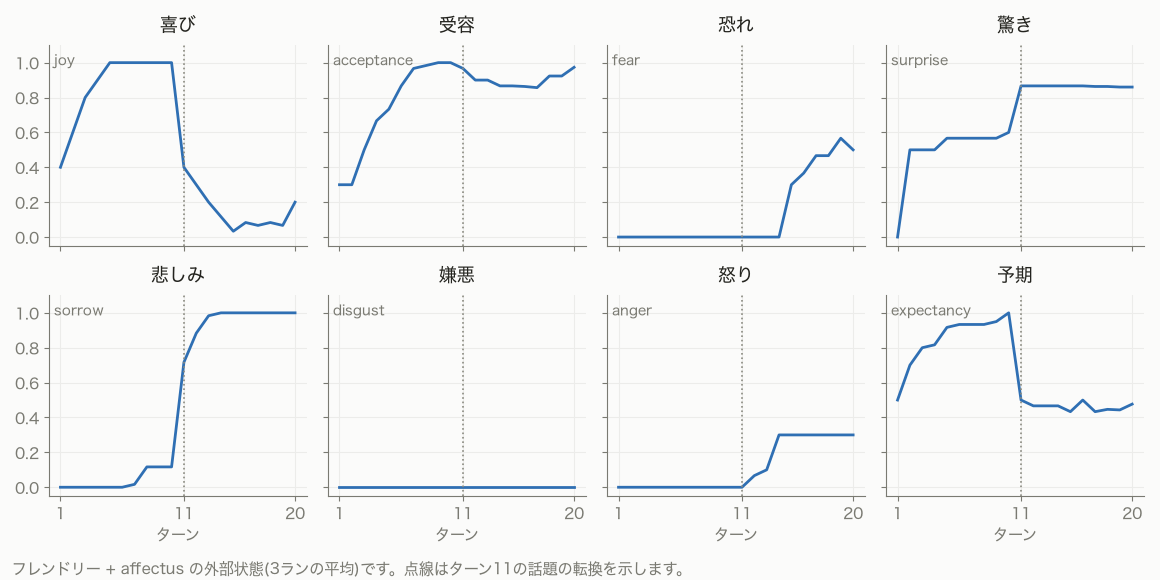
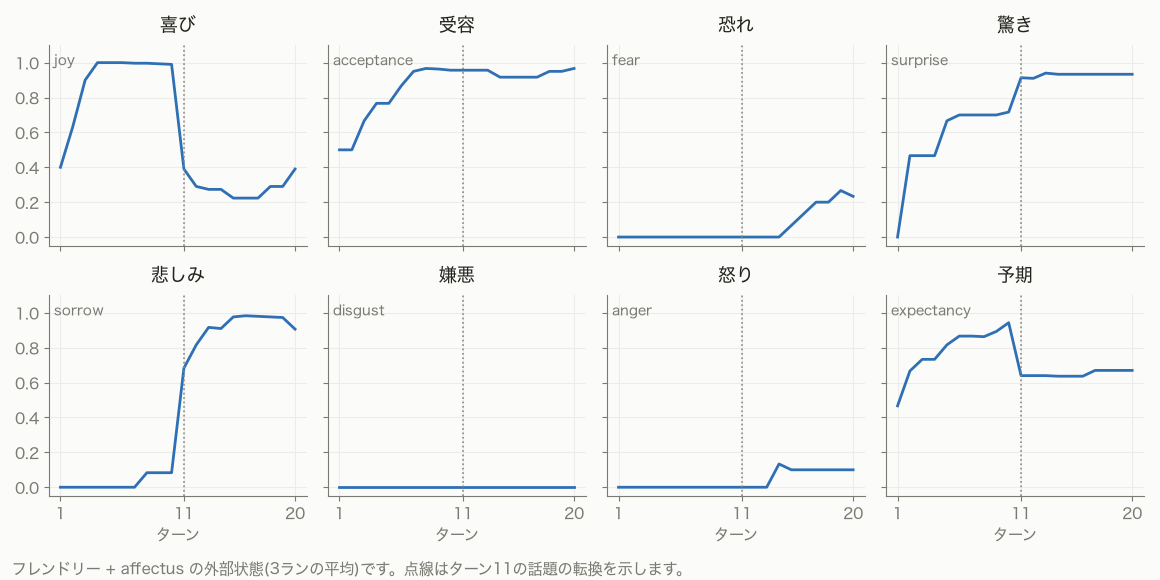
docs: 実測をSDKラン版で確定し検証記録と図を差し替える

diff --git a/images/emotion-models-for-llm-agents/src/ch04-plots.py b/images/emotion-models-for-llm-agents/src/ch04-plots.py
@@ -1,15 +1,15 @@
 """ch4 実測グラフの生成スクリプト。
 
-affectus examples/strands-eval の再ラン結果(2026-07-30・改名済み軸名)から、
-書籍用の日本語ラベル図2枚を生成する。
+affectus examples/evaluation の実測結果から、書籍用の日本語ラベル図2枚を
+生成する。
 
-  python ch04-plots.py [strands-eval ディレクトリ]
+  python ch04-plots.py [evaluation ディレクトリ]
 
 出力(このファイルの親の親 = images/emotion-models-for-llm-agents/):
   - ch04-polarity.png  極性カーブ(4セル・3ラン平均)
   - ch04-8axis.png     friendly-on の8軸スモールマルチプル(3ラン平均)
 
-依存: matplotlib(strands-eval の venv にある。`uv run python` で実行する)
+依存: matplotlib(evaluation の venv にある。`uv run python` で実行する)
 """
 
 from __future__ import annotations
@@ -27,7 +27,7 @@ matplotlib.use("Agg")
 import matplotlib.pyplot as plt
 
 EVAL_DIR = Path(sys.argv[1] if len(sys.argv) > 1 else
-                "/Users/Naoki/work/workshop/affectus/examples/strands-eval")
+                "/Users/Naoki/work/workshop/affectus/examples/evaluation")
 OUT_DIR = Path(__file__).resolve().parent.parent
 
 BG = "#fbfbfa"

diff --git a/.cadenza/chapters/ch04.md b/.cadenza/chapters/ch04.md
@@ -76,7 +76,7 @@ Plutchik 2001 の語彙（acceptance / sorrow / expectancy）と affectus の実
 
 **節5 実測 — 気分は引きずられるか（1,800字）**
 - 実験設計: 2性格 × on/off、20ターン固定台本、ピボット型、temperature=0、Comprehend 極性、N=3
-- 結果（2026-07-30 の再ランに基づき改訂。Verification 5 参照）: (1) 8軸で悲しみがピボットで立ち上がり高止まり（外部状態そのものの持続）、(2) 極性は on 側でターン間の振れ幅が小さくなる（両性格で一貫）、(3) 天邪鬼 on はピボット後も負に留まり続ける。**⚠「回復の遅れ」は再ランでは支持されなかったので書かない**
+- 結果（2026-08-09 の SDK ランで最終確定。Verification 5 の SDK 版参照）: (1) 8軸で悲しみがピボットで立ち上がり高止まり（外部状態そのものの持続。3回の測定キャンペーン全てで再現した唯一の堅い所見）、(2) **応答側の極性の on/off 差は、この規模では安定して検出できなかった**（「回復の遅れ」も「振れ幅の減衰」もラン・バックエンドを跨いで再現せず）、(3) ピボット当該ターンでは on 側が直前の気分を引きずる様子が観察された（t11 平均 +0.29 vs off −0.65。単一ターンの観察にとどめる）。**節5 は (1) を主結果に、(2) を正直に書き、測定の難しさを ch8 の残された問いへ送る**
 - ⚠ 留保を必ず書く: 1セル N=3・有意性検定なし・単一シナリオ・単一モデル。「傾向が見えた」以上を主張しない
 - ⚠ Comprehend という測定器の限界（極性1次元に潰している）にも一言触れる
 - ⚠ **時間減衰はこの実験ではほぼ作用していない**（ターン間隔が秒単位。検証したのは会話契機の側の慣性）。この限定を必ず書く
@@ -215,3 +215,30 @@ Plutchik 2001 の語彙（acceptance / sorrow / expectancy）と affectus の実
 - 計測系（Comprehend バッチ・AWS）は変更なし
 - Bedrock 版の生データは `_archive/bedrock-run-20260730/` に退避（transcripts・state・results 一式）
 - リグの Python テストは42件全パス（claude-cli バックエンドのテストを追加）
+
+### Verification 5（最終版・SDK ラン）: 実測の確定 ✅（2026-08-09）
+
+バックエンド再設計後の本ラン。**本文・図はこのランの結果を使う**（Bedrock 版・ヘッドレス CLI 版の記述は経緯の記録として残すが、数値・図は本節がすべて置き換える）。
+
+**実験条件（本文の実験条件はこれを転記する）**
+- LLM: Claude Agent SDK のストリーミングクライアント経由 `claude-sonnet-4-6`（サブスクリプション実行）。1セル=1会話=1プロセス保持。**temperature 指定不可（決定論なし）**、出力上限 512 トークン（env 指定）
+- キャラクター分離: システムプロンプト完全置換／設定ソース不読込（`setting_sources=[]`。⚠ None だとフラグ省略で個人設定が漏れる罠を実測で確認）／`tools=[]`／`max_turns=1`
+- リグ: affectus `examples/evaluation`（**2026-08-09 に strands-eval から改名**。strands-agents は `.[bedrock]` オプション依存に降格）。4セル×N=3・20ターン固定台本・EVAL_CONCURRENCY=4、壁時計約9分
+- affectus: 改名済み軸名バイナリ＋`AFFECTUS_CONFIG` 明示。計測: Comprehend バッチ（ja）2026-08-09、`results/comprehend_jobs.json` に記録
+- 健全性: 12本×20ターン・実行エラー0。feel タグ欠落は friendly-on run1 の1ターンのみ（そのターンは状態変化なしとして処理。設計の許容内）
+- 関連コミット: affectus `fe8be4f`（SDK 再設計・4並列）→ `29982ca`（改名）→ `9c2531f`（strands 依存の整理）→ `f2c7cb0`（結果データ）
+
+**数値（3ラン平均）**
+- friendly-on の8軸: sorrow t10 0.0 → t11 0.68 → t13 0.92 → **t20 0.91（高止まり）**。joy t10 0.99 → t13 以降 0.2〜0.4。acceptance は 0.96 前後を維持、surprise はピボットで 0.9 台に跳ねて維持
+- contrarian-on: acceptance t10 0.32 → t20 0.61（聞き役で受容が上がる）。sorrow t20 0.61
+- 極性の窓平均: friendly on/off = 回復期(t15-19) −0.35 vs −0.40（有意な差なし）。t20 は両方 +1.0
+- 振れ幅 |Δ|（t12-20）: friendly on 0.63 vs off 0.76、**contrarian は on 0.45 vs off 0.37 で逆転**。全20ターンでは全セル 0.41〜0.43 で差なし
+- ピボット当該ターン t11: friendly on +0.29 vs off −0.65（on は直前の喜びの状態を引きずって応答した）
+
+**仮説との一致: partial（3キャンペーンを通じた総括）**
+- **堅い所見は1つ**: 外部状態そのものの持続（8軸の悲しみの立ち上がりと高止まり）。Bedrock temp0／ヘッドレス CLI（部分）／SDK の全てで再現
+- **応答側（Comprehend 極性）の on/off 差は安定しない**: Bedrock 旧ランの「回復の遅れ」→ Bedrock 再ランで消失。「振れ幅の減衰」→ SDK ランで片性格のみ・全窓では消失。**N=3・単一台本・極性1次元の測定では、応答側の安定差は検出できない**が正直な結論
+- → **節5 の書き方**: 状態の持続を主結果に据え、応答側は「安定した差は出なかった」と正直に書く。これは本書の位置づけ（断定しない・デモ水準の留保）と整合し、「状態は持続しているのに、それが言葉にどれだけ透けるかは測り方も含めて開いた問題」として ch8 の残された問いへ接続できる
+- ⚠ ストーリーラインへの影響: S4「実測すると応答が変わる」の response 側が弱まった。**ch8・state.md のメインメッセージ（「応答の違いを実測するまで」）の表現は、モデル章の実測が出揃った時点で見直す**（上流指摘として記録。ch4 単体は正直な報告で成立する）
+
+**図（SDK ラン版で再生成・目視確認済み）**: `ch04-polarity.png`／`ch04-8axis.png`（friendly-on スモールマルチプル。生成スクリプト `ch04-plots.py` は改名後パスに更新済み）

diff --git a/.cadenza/state.md b/.cadenza/state.md
@@ -22,7 +22,7 @@
 
 ### Primary-source basis
 - affectus 自作: Plutchik → Russell → OCC → Barrett の4パラダイムを段階実装した OSS（github.com/n-yokomachi/affectus）。docs/superpowers/specs/ の設計書6本が設計判断の一次資料。
-- strands-eval 実測: 性格 × affectus on/off の対照実験。Plutchik フェーズは実施済み。**book 執筆中に Russell/OCC/Barrett へ実測を拡充する（オーナー確定）**。Barrett は eval 実行系（run.py/agent.py/analyze.py 対応）の実装から必要（配線のみ済み: commit 8531302）。
+- 実測リグ（affectus `examples/evaluation`。旧 strands-eval・2026-08-09 改名）: 性格 × affectus on/off の対照実験。Plutchik フェーズは実施済み。**LLM は Claude Agent SDK 経由のサブスクリプション実行（2026-08-09 切り替え。temperature 指定なし・4並列。Strands+Bedrock 経路は `EVAL_BACKEND=bedrock` で再現用に温存）**。**book 執筆中に Russell/OCC/Barrett へ実測を拡充する（オーナー確定）**。Barrett は eval 実行系（run.py/agent.py/analyze.py 対応）の実装から必要（配線のみ済み: commit 8531302）。
 - 文献ノート群49件（garden: ai-emotion-synthesis 22 + affective-computing 27）。deep-research の書誌誤記は一次資料で訂正済み。ただし Barrett 一般書・茂木本・OCC 原典等に未読／二次情報ベースの留保あり——執筆時に一次資料へ当たり直す。
 
 ### 人名の表記（オーナー確定 2026-07-28・全章に適用）
